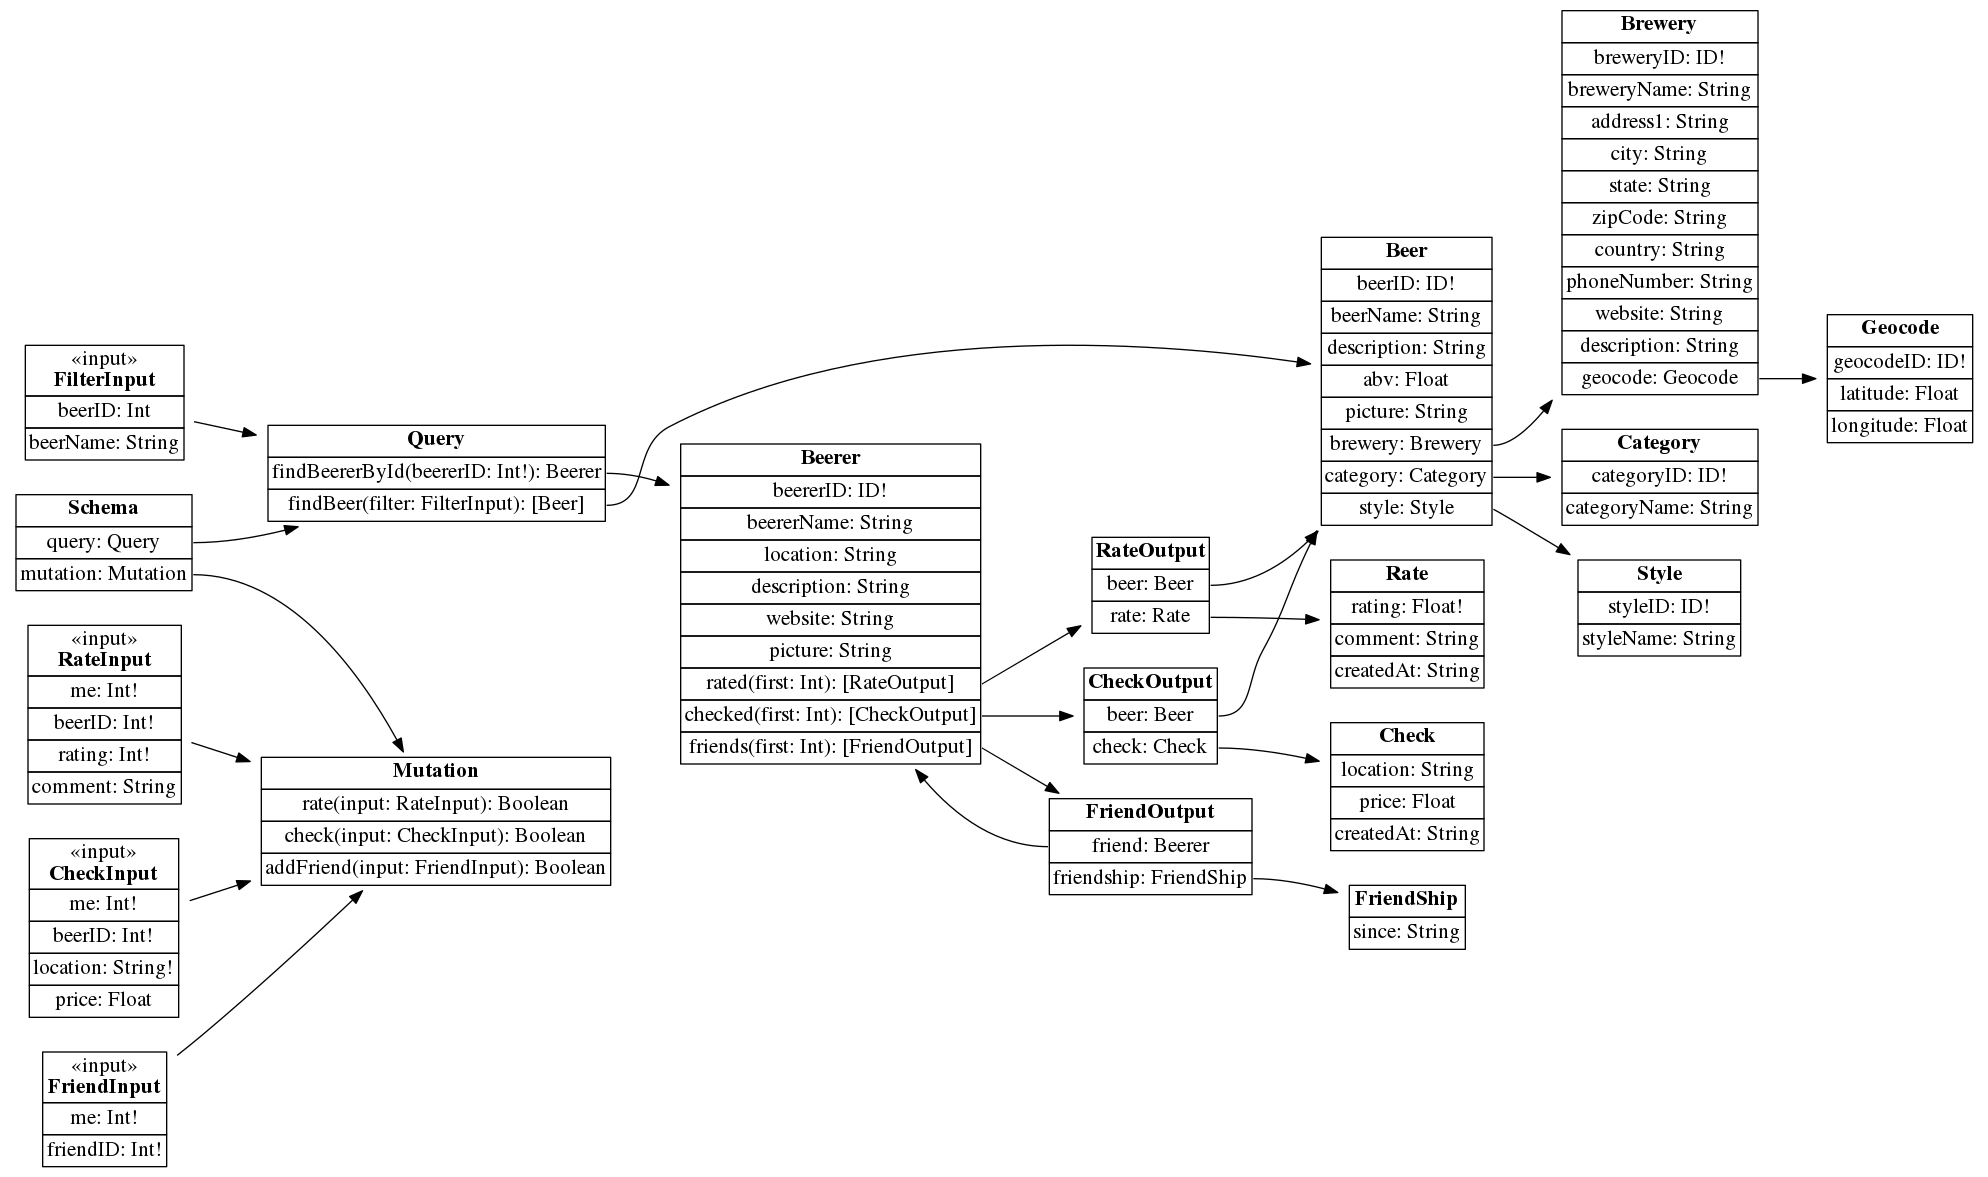
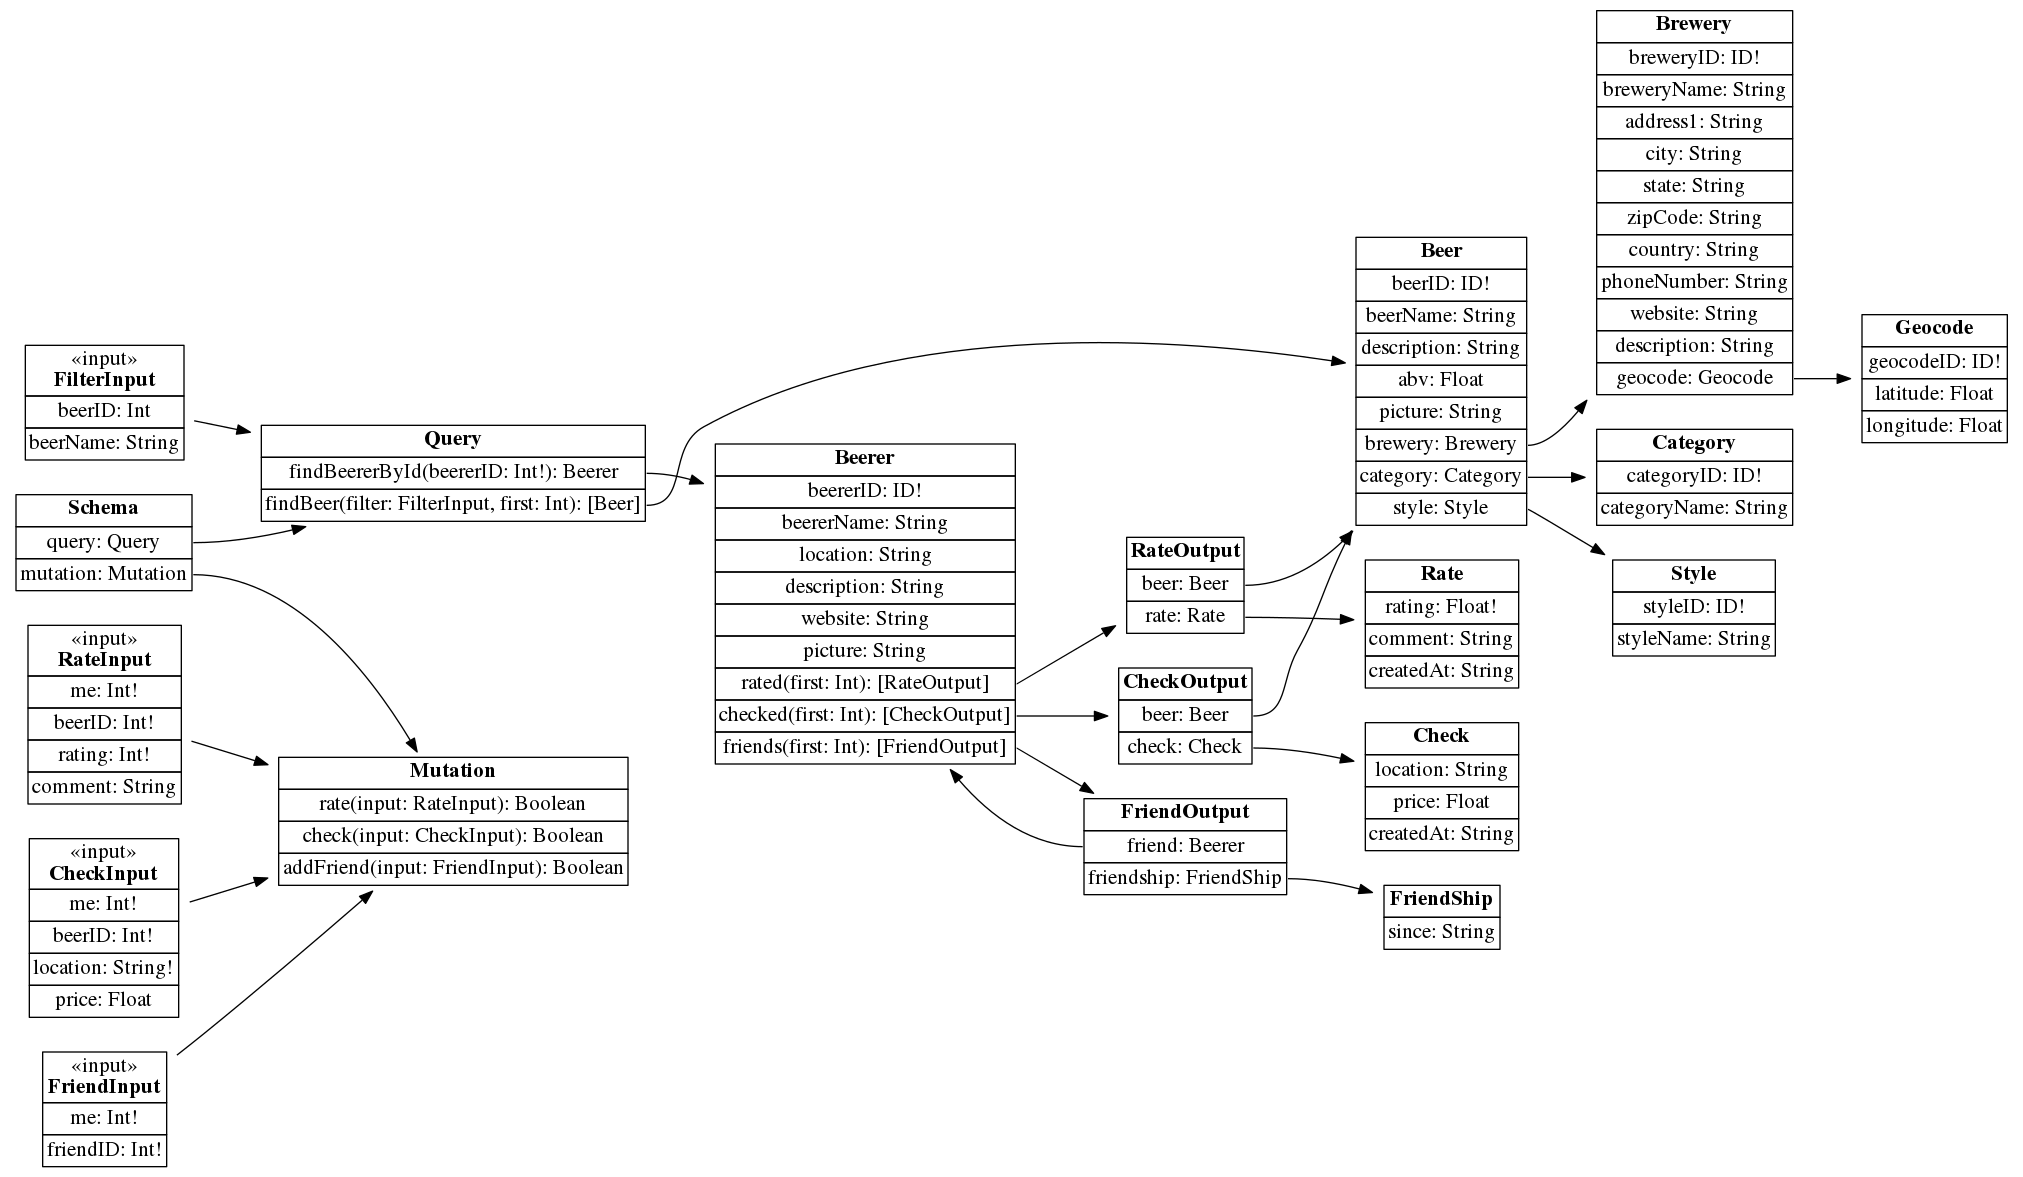
Add first parameter

diff --git a/server.js b/server.js
@@ -19,7 +19,7 @@ const executableSchema = makeExecutableSchema({
 app.use('/graphiql', graphiqlExpress({
   endpointURL: '/graphql',
   query: `{
-    findBeer(filter: {beerName: "coro"}) {
+    findBeer(filter: {beerName: "coro"}, first: 5) {
       beerName
       abv
       description

diff --git a/README.md b/README.md
@@ -25,7 +25,7 @@ http://localhost:3000/graphiql
 
 ```json
 {
-  findBeer(filter: {beerName: "coro"}) {
+  findBeer(filter: {beerName: "coro"}, first: 5) {
     beerName
     abv
     description
@@ -116,11 +116,11 @@ mutation {
 ### apollo-codegen
 
 ```
- apollo-codegen introspect-schema schema/schema.graphql
+apollo-codegen introspect-schema schema/schema.graphql
 ```
 
 ### Generate graph
 
 ```
-graphqlviz http://localhost:3000/graphql | dot -Tpng -o graph.png
+graphqlviz schema/schema.graphql -g | dot -Tpng -o graph.png
 ```
